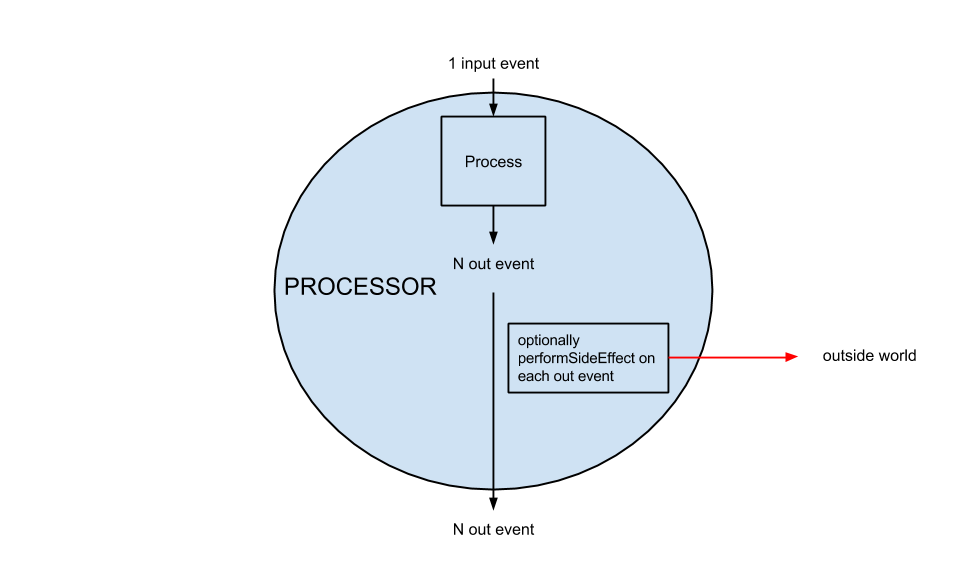
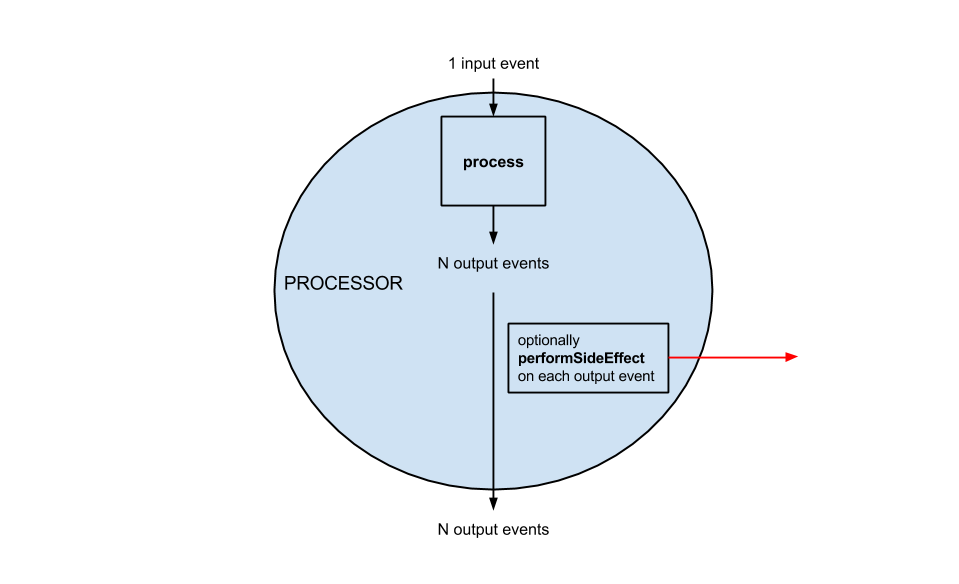
fixes from INSA report

diff --git a/src/parts/streamprocessing.tex b/src/parts/streamprocessing.tex
@@ -11,25 +11,23 @@ An important problem that will solve the architecture is the fact that the Journ
 any parent node (Journal or processor) can have an output stream rate that is superior to the event processing time of one or several of its children. 
 Several simple \textit{push} solutions can be applied, but none of them were applicable for our system.
 
-First, any child can just have an in-memory buffer that stores the incoming events not yet processed. However, an in-memory buffer has obvious limitations like causing an OutOfMemory exception. Moreover, as said in the non-functional requirements part, one goal is to limit the RAM consumption of the platform. Thus, this solution is
-not applicable.
+First, any child can just have an in-memory buffer that stores the incoming events not yet processed. However, an in-memory buffer has obvious limitations like causing an OutOfMemory exception if the child can not handle the flow rate and start queuing a lot of events. Moreover, as said in the non-functional requirements part, one goal is to limit the RAM consumption of the platform. Thus, this solution is not applicable.
 
 Another solution can be for a parent node to wait that all its children have processed the current event to send the next one via an ACK mechanism. 
 An obvious issue of this approach is that
 the slowest child of a parent will slow down the event stream rate for all its siblings. This is clearly not acceptable for a scalable system with loose coupling 
-between components. Moreover, such a solution implies that the failure of a child stops the stream for its siblings, which is clearly not scalable.
+between components. Moreover, such a solution implies that the failure of a child stops the stream for its siblings, which is clearly not a fault-tolerant approach.
 
 As a reminder, no message loss is a requirement for the platform, so dropping the events if the stream rate is too fast is not an option.
 \\
 
 \subsection{Pull-based streaming with event-sourced processors}
 
-One suitable solution is to use a pull-model instead of a push-model. For each received event, a processor processes it to produce a substream, optionally do some
-side effects on the substream, and stores the events of this substream in a local journal. Thus, each processor maintains its own event journal, so each processor is \textit{event-sourced}.
+One suitable solution is to use a pull-model instead of a push-model. For each received event, a processor processes it to produce a substream and stores the events of this substream in a local journal as a side-effect. Thus, each processor maintains its own event journal, so each processor is \textit{event-sourced}.
 This allows each child to maintain a cursor on the journal of its parent pointing on the next event to pull. Thus, children can have totally different pulling and processing speeds, they are not coupled to each other. This approach of pull-based stream systems with decoupled multi-consumers using cursors comes from Apache Kafka, a distributed messaging system for log processing created at LinkedIn \footfullcite{bib:kafka}. 
 
-A common problem with pull based-system is the polling part. How can children know when the next event is ready to be pulled? The naive way to do this is to check every X seconds / milliseconds if the parent has a new event in its journal. This can waste a lot of resources when a parent has no new event for a while. The solution brought by Kafka is to 
-perform long-polling: when the child's cursor goes on the next event, either it pulls the next event if it exists or it blocks until a new event comes in to pull it. Thus, children do not have to pull periodically to know whether there is a new event.
+A common problem with pull-based system is the polling part. How can children know when the next event is ready to be pulled? The naive way to do this is to check every X seconds / milliseconds if the parent has a new event in its journal. This can waste a lot of resources when a parent has no new event for a while. The solution brought by Kafka is to 
+perform long-polling: when the child's cursor goes on the next event, either it pulls this next event if it exists or it blocks until a new event comes in to pull it. Thus, children do not have to pull periodically to know whether there is a new event.
 
 However, the term "blocks" does not really get along well with our reactive non-blocking architecture. We therefore have to find a way to implement long-polling without blocking
 threads. To do that, we will use the Promise abstraction described in section \ref{sec:promises}. Mixing Futures, Iteratees and Promises, we will be able to implement
@@ -40,25 +38,25 @@ into the document. MongoDB provides a built-in id generation mechanism that keep
 \\
 
 Thus, each event produced by a processor goes into its MongoDB local journal, and children pull events (one by one or by bulk) according to their cursor position in their parent
-local journal. If one or several of them is "up-to-date" with the last event of its parent, a long-polling mechanism allows to prevent them to waste resources periodically pulling their parent.
+local journal. If one or several of them are "up-to-date" with the last event of their parent, a long-polling mechanism allows to prevent them to waste resources periodically pulling their parent.
 
 However, this mechanism can be improved. For example, if a parent processor knows that one of its children is "up-to-date", it can directly send him the next event when it has just been created without passing by the persistent storage (in order to improve efficiency). This approach is described in section \ref{sec:adapativepushpull}.
 
 \subsection{Fault-tolerant persistent processors with exactly-once side-effect semantic using Path Ids}
 \label{sec:substreamproblem}
 
-Of course, a persistent storage on MongoDB allows fault-tolerance in case of a processor crashes and restarts. When a processor restarts, it checks in MongoDB what was the last id of the event it has successfully processed before crashing, and asks its parent for the next event after this id (it \textit{replays} the stream from where it crashed).
-However, if a processor crashes \textit{during} the processing of an event, how to know if it has successfully and entirely processed this event? What it means to process "entirely" an incoming event?
+Of course, a persistent storage on MongoDB allows fault-tolerance in case of a processor crashes and restarts. When a processor restarts, it checks in MongoDB what was the id of the latest output event it has successfully processed before crashing, and asks its parent for the next event after this id (it \textit{replays} the stream from where it crashed).
+However, if a processor crashes \textit{during} the processing of an event, how to know if it has successfully and entirely processed this event? What does it mean to process "entirely" an incoming event?
 \\
 
 First, we differentiate the \textbf{process} method and the \textbf{performAtomicSideEffect} method in a processor. As stated in the Requirement chapter, the process method 
 takes one event and produces a substream of events from it. Its signature is \verb|process(event: I): Enumerator[O]| where I is the type of input events and O the type
 of out events. As we saw in the previous parts, an Enumerator is a functional abstraction for a non-blocking stream producer. The function implementing the process interface
-should be pure, i.e should not have any side-effect. More precisely, it can have side-effects, but the call semantic of this function is \textit{at-least-once} for each 
+should be pure, i.e. should not have any side-effect. More precisely, it can have side-effects, but the call semantic of this function is \textit{at-least-once} for each 
 event, meaning that the same side-effect can be called several times. Thus, it is ok to have idempotent side-effects. However, for side-effects that are non-idempotent and
 thus requires \textit{exactly-once} semantic, one can use the performAtomicSideEffect method whose signature is \verb|performAtomicSideEffect(event: O): Future[Unit]|.
-The function is called for each output event of the created sub-stream and is guaranteed to be called exactly-once for each output event even in cases of failures. The
-Future[Unit] return type is a Future returning nothing (i.e a side-effect). The difference of returning Future[Unit] instead of simply returning Unit is that a side-effect
+The function is called for each output event of the created sub-stream and is guaranteed to be called exactly-once for each output event even in cases of processor failures. The
+Future[Unit] return type is a Future returning nothing (i.e. a side-effect). The difference of returning Future[Unit] instead of simply returning Unit is that a side-effect
 can be asynchronous but returning a Future of nothing allows us to known when this side-effect is finished. This enables to ensure sequentiality of side-effects (the side-effect
 of "out event 1" in the substream will be finished when the side-effect of "out event 2" begins).
 
@@ -94,7 +92,7 @@ will generate event 1-1-1, event 1-1-2, event 1-2-1, event 1-2-2, event 1-3-1 an
 We see that the generation of events has a tree-shape, and each event can be characterized by a path in this tree (for example, 1-2-1). The idea of PathId is to
 auto-generate these path ids when events pass through processors so that it is possible to re-climb the tree given a particular event.
 
-Concerning fault-tolerance, a child processor that recovers after a crash can check its last PathId, remove the last node "LastNode" of it and send it to its parent. Then, the parent send him the event that the child re-processes (re-creating the substream), and thanks to the number "LastNode" of the last node the child can know from where in the substream it crashed. The idea of id generation to be able to retrieve from a child event the parent event comes from Apache Storm, a distributed and fault-tolerant real-time computation framework \footfullcite{bib:storm}.
+Concerning fault-tolerance, a child processor that recovers after a crash can check its last PathId, remove the last node "LastNode" of it and send this path id to its parent. Then, the parent sends him the event that the child re-processes (re-creating the substream), and thanks to the number "LastNode" of the last node the child can know from where in the substream it crashed. The idea of id generation to be able to retrieve from a child event the parent event comes from Apache Storm, a distributed and fault-tolerant real-time computation framework \footfullcite{bib:storm}.
 
 The implementation part will explain in more details how these PathIds are serialized and deserialized in MongoDB.
 
@@ -140,7 +138,7 @@ a local journal, but it implies that event stream replays take longer because a 
 \label{sec:adapativepushpull}
 
 An important optimization can still be made to this model. For now, from a processor point of view, receiving input events and sending output events are totally
-decoupled tasks that are asynchronous between each others. For persistent processor, all input events are processed and the result substream is written to the local journal, and then children consumes events from this journal. For side-effect processor, it means that each time that a side-effect processor receives a new input, its children will be notified that there is a new event via the long-polling mechanism, but for the children to get this event via the cursor mechanism the processor has to ask again its parent independently for each child in order to replay the stream from this event (as it has no persistence). 
+decoupled tasks that are asynchronous between each others. For persistent processor, all input events are processed and the result substream is written to the local journal, and then children consume events from this journal. For side-effect processor, it means that each time that a side-effect processor receives a new input, its children will be notified that there is a new event via the long-polling mechanism, but for the children to get this event via the cursor mechanism the processor has to ask again its parent independently for each child in order to replay the stream from this event (as it has no persistence). 
 If the children were late in the stream, this is the only solution, but if the children were up-to-date in the stream, it would be way more performant to just send the processed out events directly to the children (for persistent processors also as it decreases the number of IO calls to the local journal).
 \\
 
@@ -160,6 +158,8 @@ Late means that the child is late in the stream, so there is no point sending hi
 In this case, the child will replay the stream at its rate. However, if it manages to catch-up with the real-time stream, its state will move to UpTodate.
 
 Figure \ref{fig:childstates} illustrates this as a state transition diagram.
+
+Thus, a processor adapts its stream strategy in real-time between push and pull to optimize performance and latency.
 
 \begin{figure}[h]
   \begin{center} 
@@ -185,7 +185,7 @@ built-in in the Iteratee concept. But how does this work in a distributed settin
 \subsubsection{Distributed processors with TCP-level back-pressure}
 
 A processor is composed of one Iteratee in input and several Enumerators in output (one per child). The pipeline composed by an Enumerator (source) and an Iteratee (sink) can
-be distributed via an HTTP chunked stream. An HTTP chunked stream is an unidirectional stream protocol that allows the producer (server) to maintain a connection with a client to send a possibly infinite number of chunks. An enumerator can be transformed very easily into a HTTP stream producer, and an Iteratee can be easily transformed in a HTTP stream client (more details in the Implementation part). Thus, processors can be distributed via HTTP streams on top of TCP.
+be distributed via an HTTP chunked stream. An HTTP chunked stream is a unidirectional stream protocol that allows the producer (server) to maintain a connection with a client to send a possibly infinite number of chunks. An enumerator can be transformed very easily into a HTTP stream producer, and an Iteratee can be easily transformed in a HTTP stream client (more details in the Implementation part). Thus, processors can be distributed via HTTP streams on top of TCP.
 \\
 
 By plugging Enumerators / Iteratees via an HTTP stream, one very interesting property is that the back-pressure mechanism remains by leveraging TCP's flow control mechanism. In a few words, if a client does not consume its receive TCP buffer, it will send an ACK message to the sender with a sliding window of size 0, meaning that it does not want more data for now, so the sender stops sending data (this is known as TCP's sliding window flow control protocol).
@@ -215,10 +215,9 @@ ignoring the Futures returned. However, in this case, there is no guarantee that
 
 \subsection{Example application}
 
-Using this generic stream processing library, an example application has been implemented to meet functional business requirements. The aim of this application is to
-maintain real-time dashboards on business data (sales, production, finance, ...). The read latency on data must be really low, so creating pre-computed dashboards that
-update themselves upon the receive of an event is an interesting approach. Moreover, upon the receive of some events, the platform should react by updating other external
-services.
+Using this generic stream processing library, an example application has also been implemented to meet functional business requirements. The aim of this application is to
+maintain real-time dashboards on business data (sales, production, finance, ...). Data read latency must be really low, so creating pre-computed dashboards that
+update themselves upon the reception of certain kinds of events is an interesting approach. Moreover, upon the reception of some events, the platform should react by updating other external services.
 \\
 
 Figure \ref{fig:exampleapp} shows the tree of processors used. 
@@ -234,12 +233,12 @@ Figure \ref{fig:exampleapp} shows the tree of processors used.
 Snapshot is a persistent processor that maintains the history of all resources (it contains all states of each resource). It takes journal events in input and return the current
 state of a resource in output. Its persistent nature allows other services to query its local journal to know past states of resources.
 
-Pusher is a side-effect processor responsible for updating other services upon the receive of particular events. Its side-effect is used to do an in-place update of the last PathId
+Pusher is a side-effect processor responsible for updating other services upon the reception of particular events. Its side-effect is used to do an in-place update of the last PathId
 it has seen.
 
 FlatSnapshot is side-effect processor that uses its side-effect to maintain a MongoDB view on the last state of each resource that is not deleted. Its process method is the identity function on the current state of a resource. 
 
-Dashboards are side-effect processors that use their side-effect to maintain aggregated views on various resources. They take the new current state of a resource as input,
+Dashboards are side-effect processors that use their side-effect to maintain pre-computed aggregation views on various resources. They take the new current state of a resource as input,
 and returns a substream of new updated aggregation lines as output.
 
 

diff --git a/src/parts/evaluation.tex b/src/parts/evaluation.tex
@@ -23,10 +23,10 @@ The Stream Processing part uses a complex adaptive push-pull model with back-pre
 
 In this thesis has been presented a Reactive platform for Data Integration and Event Stream Processing. Events and Event-Sourcing are the core concepts of the platform to enable 
 real-time propagation of data changes across the system, from external data sources to data aggregation dashboards. Data sources are pulled in a parallel and incremental way via their REST API to create a real-time flow of events that are inserted in an event-sourced Journal. Saving not only the current state of the data but also all the data changes
-that led to this current state allows to be able to query and replay the history of the data, which can be useful for business purposes but also for technical purposes such as fault-tolerance or stream processing with subscribers that have heterogeneous processing speed.
-From the events stored in the Journal, a tree of stream processors can be defined to subscribe to the data changes and react in various ways. An example use of a processor is to maintain a specific data aggregation dashboard that gets updated incrementally upon certain types of events in real-time. Strong technical guarantees are ensured by the platform as in-order sequential asynchronous processing with exactly-once side-effect semantic even in case of failure. Under the hood, a complex adaptive push-pull model with back-pressure is used to maximize the performance of the system and minimize the amount of resource (CPU, RAM) used. Functional programming abstraction has been used to allow maintainable and composable asynchronous programming.
+that led to this current state allows to be able to query and replay the history of the data, which can be useful for business purposes but also for technical purposes such as fault-tolerance or stream processing with subscribers that have heterogeneous processing speeds.
+From the events stored in the Journal, a tree of stream processors can be defined to subscribe to the data changes and react in various ways. An example use case of a processor is maintaining a specific data aggregation dashboard that is updated incrementally upon certain types of events in real-time. Strong technical guarantees are ensured by the platform as in-order sequential asynchronous processing with exactly-once side-effect semantic even in case of failure. Under the hood, a complex adaptive push-pull model with back-pressure is used to maximize the performance of the system and minimize the amount of resource (CPU, RAM) used. Functional programming abstractions have been used for maintainable and composable asynchronous programming.
 \\
 
-Concerning the Future Work that can be made on the platform, one problem is that the distributed mode is for now point-to-point oriented, i.e we need to manually configure which component (data puller, processor) is on which machine. To obtain elastic scalability, it would be interesting to use a cluster oriented approach with a cluster manager layer that automatically put components on machines according to the current resource availability of each machine.
+Concerning the Future Work that can be made on the platform, one problem is that the distributed mode is for now point-to-point oriented, i.e. we need to manually configure which component (data puller, processor) is on which machine. To obtain elastic scalability, it would be interesting to use a cluster oriented approach with a cluster manager layer that automatically put components on machines according to the current resource availability of each machine.
 
 

diff --git a/src/parts/requirements.tex b/src/parts/requirements.tex
@@ -12,11 +12,11 @@ will have a field name, address, ...).
 \\
 
 More specifically, the platform needs to integrate several data sources that expose REST APIs. Such APIs expose information
-concerning business data such as new sales information, new financial information, new production information...
+concerning business data such as new sales information, new financial information...
 Each time that a resource is modified in one of these data sources, the platform should detect this change, apply some data cleaning and transformation, create an 
 event from it and push it into the Journal.
 
-The problem with most REST APIs is that they are not evented, i.e they are pulled-based and not pushed-based. 
+The problem with most REST APIs is that they are not evented, i.e. they are pulled-based and not pushed-based. 
 One must sent an HTTP request to query new data each time they need to. There exists some techniques to stream data via HTTP 1.1 and the 
 Chunked Transfer Encoding, but the REST APIs that the platform needs to integrate do not expose such stream interface. 
 Thus, the architecture of this part needs to provide a way to perform incremental pull from data sources, and then transform
@@ -44,7 +44,7 @@ to define a tree a stream processors (see Figure \ref{fig:tree}), where the root
   \end{center}
 \end{figure}
 
-A stream processor receives events coming from its parent node. Upon the receive of an event, it can do one or several of these
+A stream processor receives events coming from its parent node. Upon the reception of an event, it can do one or several of these
 actions (see Figure \ref{fig:streamprocessor}):
 \begin{itemize}
   \item Creation of a sub-stream: the stream processor can transform a received event to a stream (several events), creating a sub-stream
@@ -85,8 +85,8 @@ can be a composition of asynchronous operations (like pulling from a database wi
 
 \subsection{Data Integration}
 
-The Data Integration part must be able to scale up easily. Scale up means that the puller should automatically make the best
-use possible of all cores available on a machine in order to parallelize the various pulls. The different parts of the puller 
+The Data Integration part must be able to scale up easily. Scale up means that the puller should automatically make the best possible
+use of all cores available on a machine in order to parallelize the various pulls. The different parts of the puller 
 should also be easily distributable in case of the load if too big for one machine to handle. 
 
 The puller should also be fault-tolerant, meaning that a failure and restart of the system should ensure that no event

diff --git a/src/parts/dataintegration.tex b/src/parts/dataintegration.tex
@@ -28,7 +28,7 @@ corresponds to an incremental pull from a certain data source). Once the child a
 
 The JobScheduler must handle the fact that the job message rate for a data source can be faster than the incremental pull
 of this data source (for example if the data source has produced a lot of new data since the last pull, or if it experiences some network problems). If a pull is still running when 
-a new job message arrives for a resource type of a data source, the JobScheduler should ignore the new pull message to avoid doing two or more pull in parallel of the same resource and risking a wrong
+a new job message arrives for a resource type of a data source, the JobScheduler should ignore the new pull message to avoid doing two or more pulls in parallel of the same resource and risking a wrong
 order of events. The JobScheduler can do this by assigning to the actor the name of the resource and data source when it spawns a new worker child. Then, when a new job message comes in, it checks if it has a child of this name, and only if such child doesn't exist it spawns a new child.
 
 The actor model also allows to deal with errors. In our case, we just want to ignore the failure of a child worker. The next top message for this data source will automatically
@@ -45,7 +45,7 @@ update event processed during the previous job. In order to persist for each job
 
 Moreover, for each resource, we are only interested in keeping the latest update. Indeed, the REST API only gives us the type of the update (create, update, delete) with the id of the resource, so if we pull (in descendant order) a delete event before an update event for a particular resource, we only want to retain the delete event.
 
-Then, the stream of events should be re-sorted in ascendant order, then for each event we must query the REST API to transform the resource id into the resource itself, then we must clean and validate the resulting JSON to transform it to a known data model, then create an event to insert into the Journal, and finally update MongoDB with the date of the last event.
+Then, the stream of events should be re-sorted in ascendant order, then for each event we must query the REST API to transform the resource id into the resource itself, then we must clean and validate the resulting JSON to transform it to a known data model, then insert the event into the Journal, and finally update MongoDB with the timestamp of this event.
 Figure \ref{fig:datintflow} illustrates this pipeline in a simple schema. 
 
 \begin{figure}[h]

diff --git a/src/parts/introduction.tex b/src/parts/introduction.tex
@@ -1,6 +1,6 @@
 \chapter{Introduction and system overview}
 
-Data is now at the center of organizations and is increasingly heterogeneous, meaning that there is an explosion of data sources 
+Data is now at the center of organizations and is increasingly heterogeneous with an explosion of data sources 
 that each exposes data in its own format that can be structured, semi-structured or non-structured.
 Another major trend is that data processing needs to be real-time, because managers no longer want to wait a whole day 
 to have reports and alerts on their business data.
@@ -8,7 +8,7 @@ to have reports and alerts on their business data.
 
 To achieve these requirements, traditional monolithic Data Wharehouse softwares start to be out-dated. They often
 propose to deal with only structured data to map it in a relational model, and are often batch-oriented: 
-the ETL mechanism (data extraction, transform and load) regularly happen once or twice day, and there is no mechanism 
+the ETL mechanism (data extraction, transform and load) regularly happen once or twice per day, and there is no mechanism 
 for real-time subscriptions of new events happening on the data as highlighted by Jay Kreps, principal staff engineer at LinkedIn \footfullcite{bib:linkedinLog}.
 \\
 
@@ -87,7 +87,7 @@ events (data changes) to the Journal.
 Nonetheless, this kind of evented architecture must be done with a lot of care concerning technical architecture.
 The platform needs to do lot of IO in order to push the stream of events from data sources to data consumers, and must
 parallelize a lot of operations. Moreover, it must ensure that the stream of events (producers) does not overwhelm the stream
-processors (consumers), i.e if consumers process data slowly, producers must try to slow the push rate. The platform should also deal with possible
+processors (consumers), i.e. if consumers process data slowly, producers must try to slow the push rate. The platform should also deal with possible
 failure of components and offer strong guarantees on these cases (like no message loss or duplication).
 
 In order to fulfill those requirements, the platform will apply the principles of the Reactive Manifesto \footfullcite{bib:reactiveManifesto} in order to guarantee

diff --git a/src/parts/studyconcurrency.tex b/src/parts/studyconcurrency.tex
@@ -381,7 +381,7 @@ via message passing. It enables simple fault-tolerance and distribution.
 
 An actor is a lightweight concurrent entity which has very cheap creation cost (far cheaper than a thread). Basically, an actor receives messages from other actors and send messages to other actors. Upon the reception of a message, it can modify its internal state, send messages to other actors, and change its message handling behavior of the next messages.
 Each actor has one mailbox that corresponds to a FIFO queue of incoming messages.
-It is guaranteed that message processing is sequential and thread-safe inside a same actor, i.e one should not have to worry about concurrency problems inside an actor when modifying its internal state. Listing
+It is guaranteed that message processing is sequential and thread-safe inside a same actor, i.e. one should not have to worry about concurrency problems inside an actor when modifying its internal state. Listing
 \ref{lst:actorexample} shows how to define a simple Actor that counts the number of messages it receives. Messages can be sent to him concurrently without worrying
 about synchronization problems.
 
